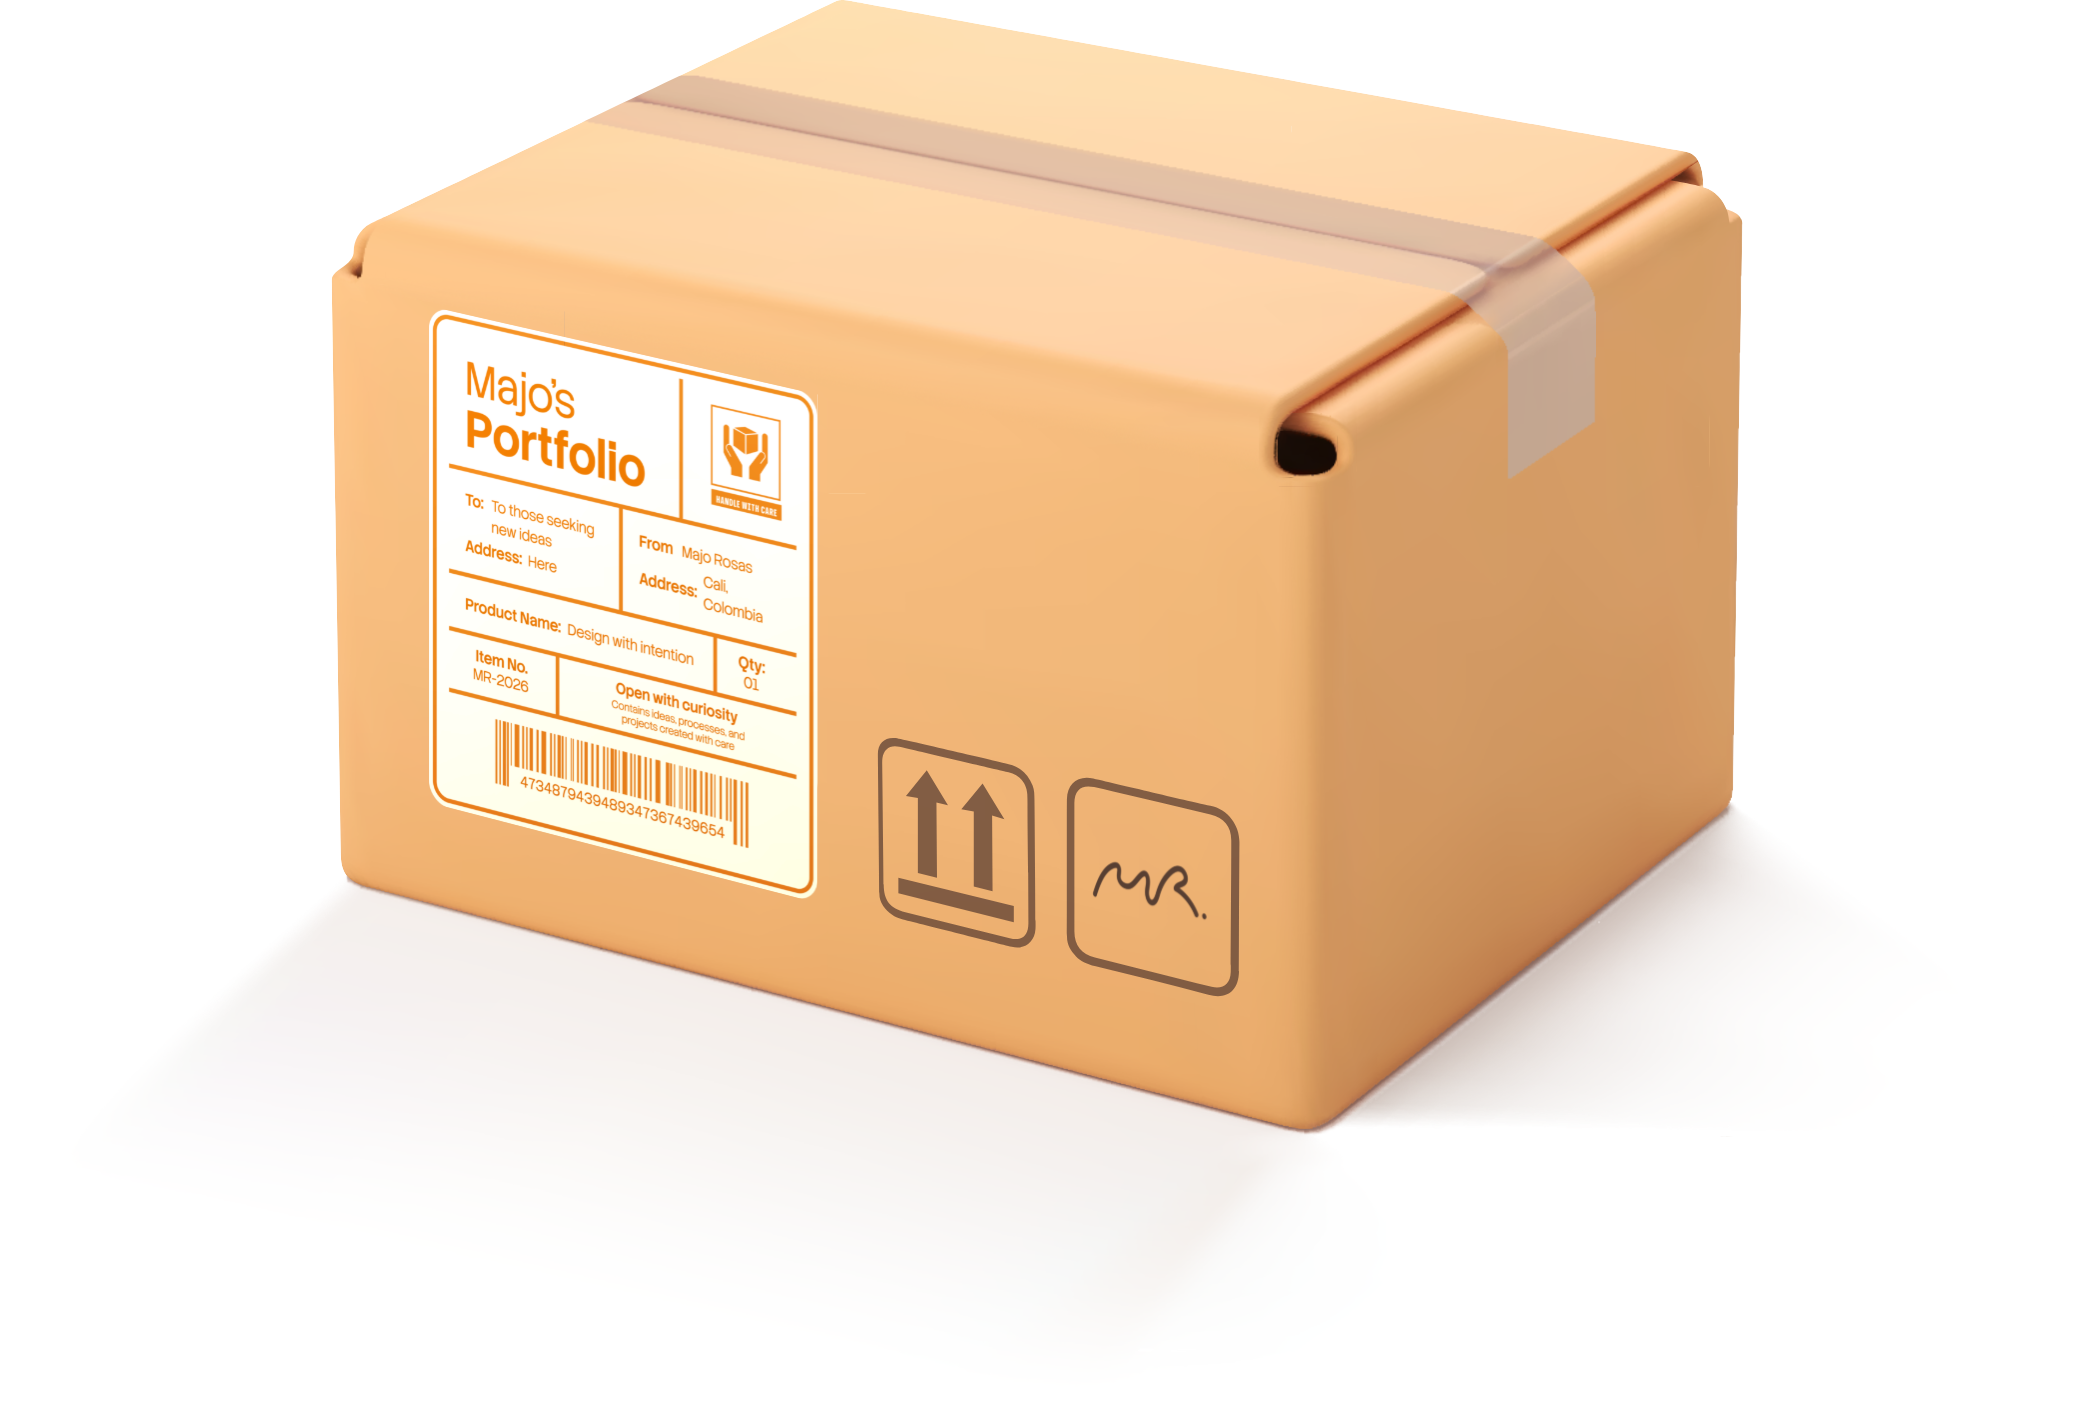
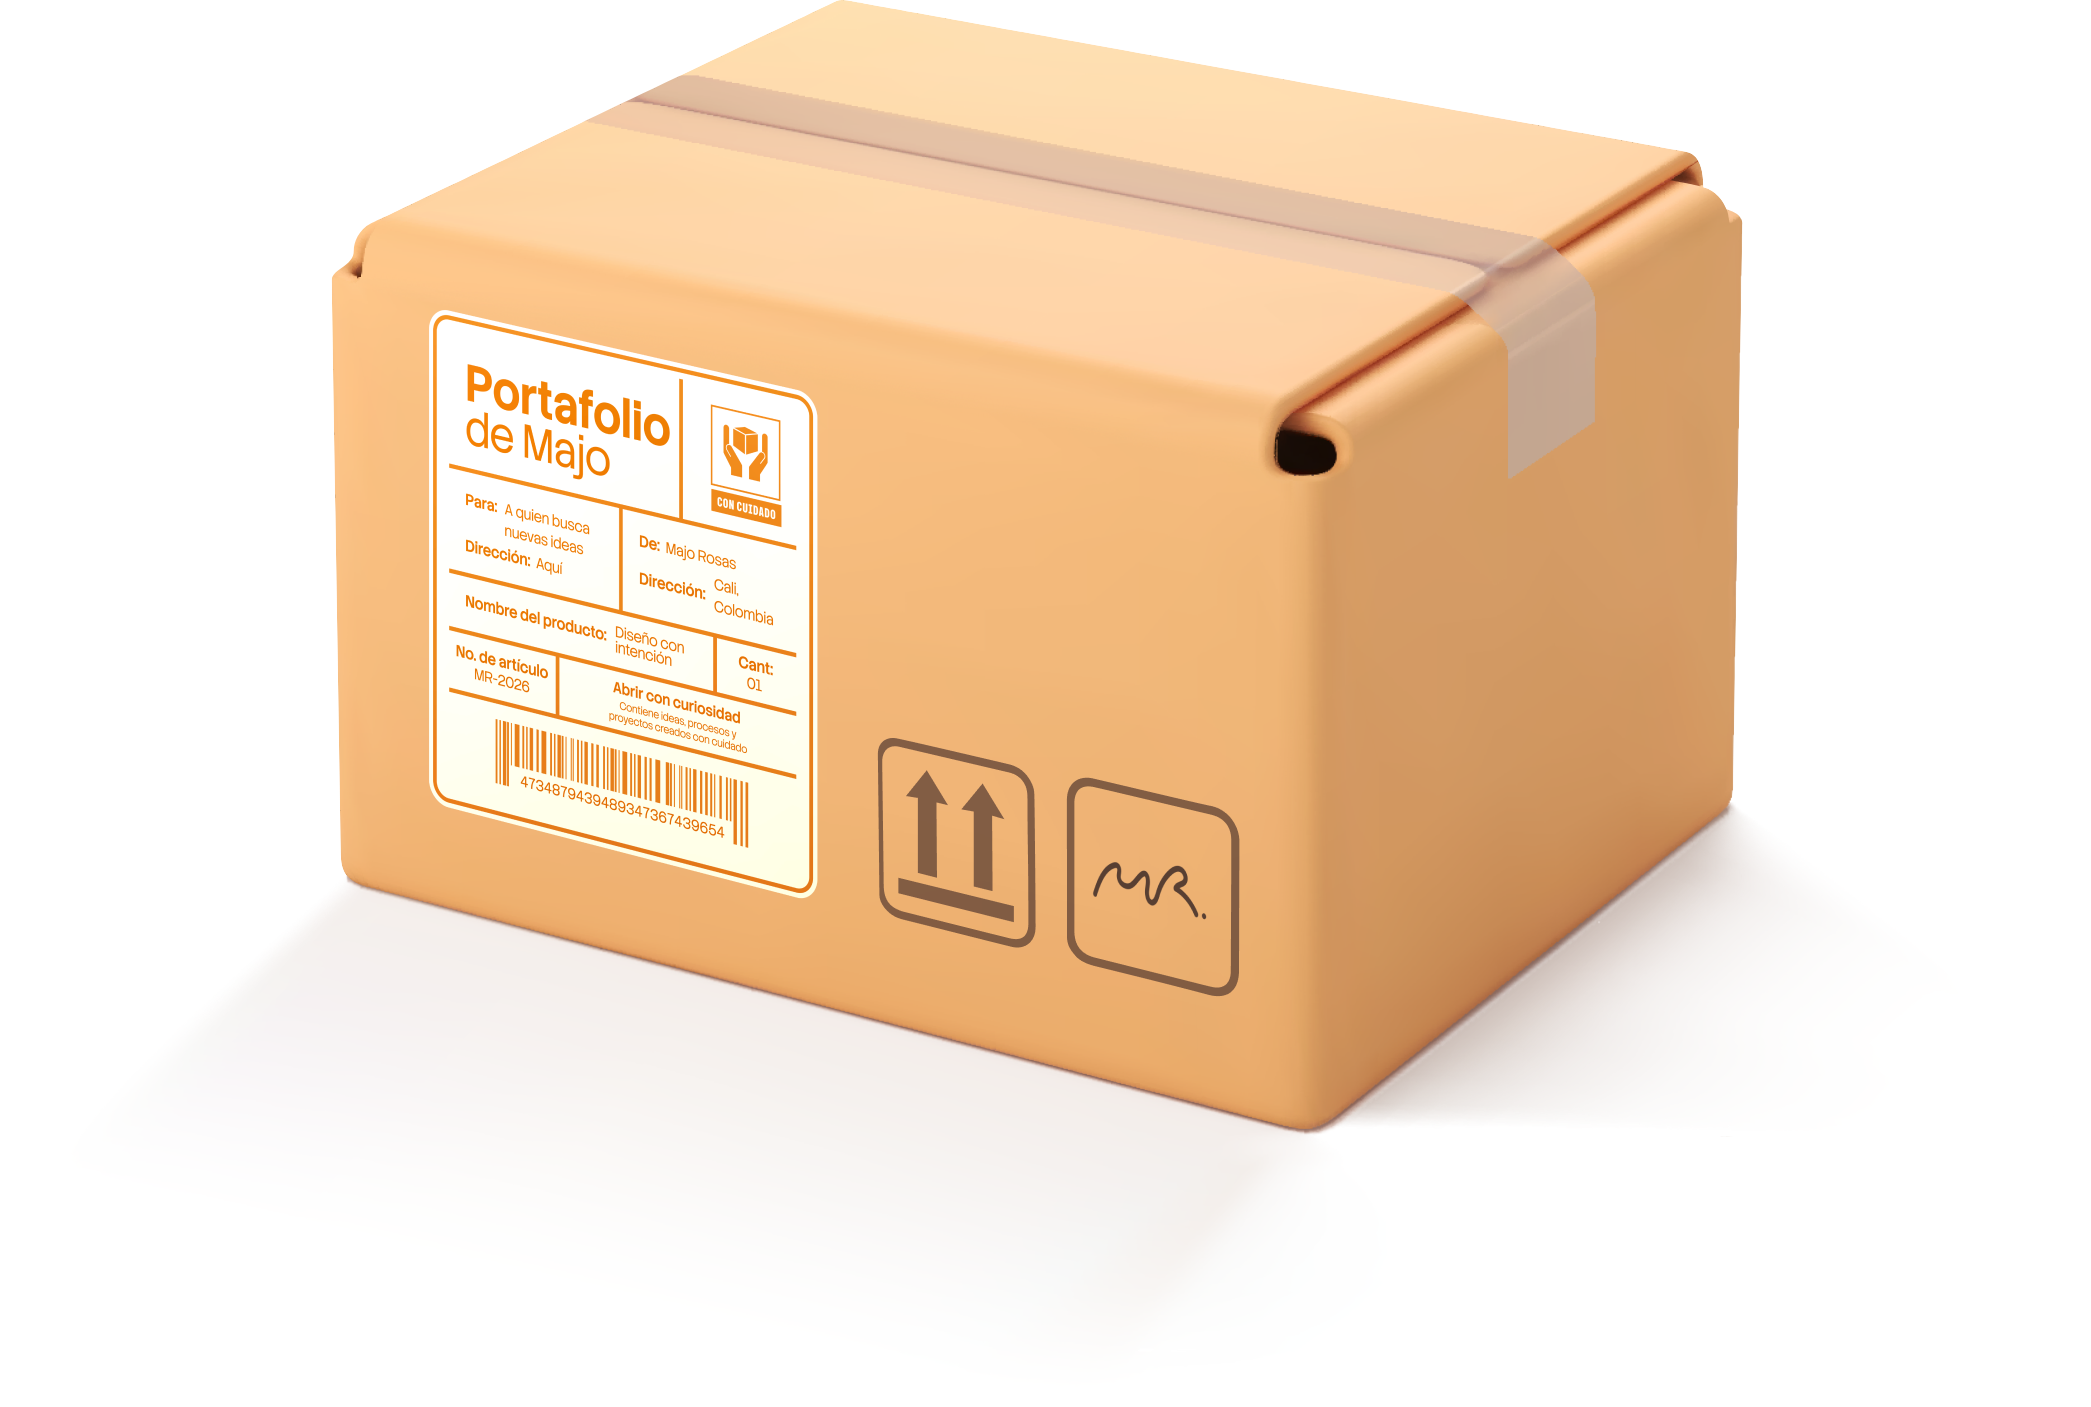
adding english mode in more images

Changed region(s): [[0.2176, 0.2445, 0.373, 0.6112]]

diff --git a/src/components/Footer.css b/src/components/Footer.css
@@ -1,0 +1,72 @@
+/* Pie de página */
+
+.footer {
+  color: var(--brown);
+}
+
+.footer__inner {
+  /* Mismos márgenes laterales que el header */
+  --margin: clamp(24px, calc(100vw * 110 / 1512), 110px);
+  display: grid;
+  grid-template-columns: 1fr auto 1fr;
+  align-items: center;
+  gap: 24px;
+  max-width: 1512px;
+  margin: 0 auto;
+  padding: 28px var(--margin);
+  border-top: 1px solid rgba(67, 47, 46, 0.15);
+  font-size: 14px;
+  line-height: 1.4;
+}
+
+.footer__credit {
+  text-align: center;
+  opacity: 0.75;
+}
+
+.footer__link {
+  opacity: 0.75;
+  text-underline-offset: 3px;
+  transition: opacity 0.2s ease;
+}
+
+.footer__link:hover,
+.footer__link:focus-visible {
+  opacity: 1;
+  text-decoration: underline;
+}
+
+.footer__link:focus-visible {
+  outline: 2px solid var(--orange);
+  outline-offset: 4px;
+  border-radius: 4px;
+}
+
+.footer__top {
+  justify-self: start;
+}
+
+.footer__email {
+  justify-self: end;
+}
+
+@media (max-width: 768px) {
+  .footer__inner {
+    --margin: clamp(20px, 5vw, 28px);
+    grid-template-columns: 1fr;
+    justify-items: center;
+    gap: 10px;
+    padding: 24px var(--margin) calc(24px + env(safe-area-inset-bottom));
+    text-align: center;
+  }
+
+  /* En columna: crédito primero, luego correo y volver al inicio */
+  .footer__credit {
+    order: -1;
+  }
+
+  .footer__top,
+  .footer__email {
+    justify-self: center;
+  }
+}

diff --git a/src/components/Header.jsx b/src/components/Header.jsx
@@ -2,6 +2,7 @@ import { useEffect, useLayoutEffect, useRef, useState } from 'react';
 import { createPortal, flushSync } from 'react-dom';
 import { useLanguage } from '../i18n/LanguageContext.jsx';
 import LanguageSwitch from './LanguageSwitch.jsx';
+import { goToSection } from './goToSection.js';
 import { socials } from './socials.js';
 import './Header.css';
 import './MobileMenu.css';
@@ -13,15 +14,6 @@ const links = [
   { href: '#projects', key: 'projects' },
   { href: '#contact', key: 'contact' },
 ];
-
-// Lleva a una sección sin escribir el #ancla en la URL (así, al recargar, la página abre en el inicio)
-const goToSection = (e) => {
-  const target = document.querySelector(e.currentTarget.getAttribute('href'));
-  if (!target) return;
-  e.preventDefault();
-  const reduced = window.matchMedia('(prefers-reduced-motion: reduce)').matches;
-  target.scrollIntoView({ behavior: reduced ? 'auto' : 'smooth' });
-};
 
 const FOCUSABLE = 'a[href], button:not([disabled]), [tabindex]:not([tabindex="-1"])';
 

diff --git a/src/components/Footer.jsx b/src/components/Footer.jsx
@@ -1,0 +1,27 @@
+import { useLanguage } from '../i18n/LanguageContext.jsx';
+import { goToSection } from './goToSection.js';
+import './Footer.css';
+
+// Pie de página discreto: volver al inicio, crédito con el año actual y el correo de contacto
+// (el mismo de la sección Contacto). Las redes ya están en Contacto, aquí no se repiten.
+const EMAIL = 'multimedia.mr16@gmail.com';
+
+export default function Footer() {
+  const { t } = useLanguage();
+  const year = new Date().getFullYear();
+  return (
+    <footer className="footer section section--paper">
+      <div className="footer__inner">
+        <a href="#intro" className="footer__link footer__top" onClick={goToSection}>
+          {t.footer.backToTop} <span aria-hidden="true">↑</span>
+        </a>
+        <p className="footer__credit">
+          {t.footer.credit} · © {year}
+        </p>
+        <a href={`mailto:${EMAIL}`} className="footer__link footer__email">
+          {EMAIL}
+        </a>
+      </div>
+    </footer>
+  );
+}

diff --git a/src/sections/Intro/Intro.jsx b/src/sections/Intro/Intro.jsx
@@ -4,6 +4,7 @@ import { byName } from '../../assets/images.js';
 import Message from '../../components/Message.jsx';
 import ObjectItem from '../../components/ObjectItem.jsx';
 import { useLanguage } from '../../i18n/LanguageContext.jsx';
+import { localizedSrc } from '../../i18n/images.js';
 import useDraggableObjects from './useDraggableObjects.js';
 import ObjectMessage from './ObjectMessage.jsx';
 import './Intro.css';
@@ -242,7 +243,7 @@ export default function Intro() {
               <img
                 key={f.src}
                 className={`box__frame box__frame--${i}`}
-                src={img[f.src]}
+                src={localizedSrc(img, f.src, lang)}
                 alt=""
                 // La caja cerrada es lo primero que se ve: se pide antes que el resto de imágenes
                 fetchpriority={i === 0 ? 'high' : undefined}

diff --git a/src/i18n/images.js b/src/i18n/images.js
@@ -8,6 +8,11 @@ export const localizedImages = {
   'sticker-about-me': { es: 'sticker-about-me', en: 'sticker-about-me.en' }, // src/assets/sections/about/
   'title-what-i-bring': { es: 'title-what-i-bring', en: 'title-what-i-bring.en' }, // src/assets/sections/what-i-bring/
   'sticker-projects': { es: 'sticker-projects', en: 'sticker-projects.en' }, // src/assets/sections/projects/
+  // Fotogramas de la caja del inicio (etiqueta «Portafolio de Majo» / «Majo's Portfolio») — src/assets/sections/intro/
+  'box-closed': { es: 'box-closed', en: 'box-closed.en' },
+  'box-opening-1': { es: 'box-opening-1', en: 'box-opening-1.en' },
+  'box-opening-2': { es: 'box-opening-2', en: 'box-opening-2.en' },
+  'box-open': { es: 'box-open', en: 'box-open.en' },
 };
 
 // img: objeto de la sección (byName); name: nombre de la imagen original.

diff --git a/src/sections/About/About.jsx b/src/sections/About/About.jsx
@@ -36,7 +36,7 @@ const TRIM = 1040;
 // - LEFT_DY / BIO_DY centran en la foto (y = 1582) el texto de la izquierda («Hola! soy» → «de Cali», el
 //   sticker se mueve con él pero no cuenta para el centrado) y la bio, así quedan alineados entre sí.
 // - COLS_DY separa «Mi enfoque» / «Mi toolkit» del final de la sección.
-const LEFT_DY = -5;
+const LEFT_DY = 5;
 const BIO_DY = 30;
 const COLS_DY = 100;
 
@@ -119,7 +119,7 @@ export default function About() {
                 <Rich text={a.role} />
               </p>
             </P>
-            <P x={281.8} y={1710.7 + LEFT_DY} r={-0.53} className="about__city">
+            <P x={281.8} y={1690.7 + LEFT_DY} r={-0.53} className="about__city">
               <Pill size="lg">{a.from}</Pill>
             </P>
           </div>

diff --git a/src/i18n/translations.js b/src/i18n/translations.js
@@ -18,6 +18,10 @@ export const translations = {
       links: { about: 'Sobre mí', whatIBring: 'Lo que aporto', projects: 'Proyectos', contact: 'Hablemos' },
       language: 'Idioma',
     },
+    footer: {
+      credit: 'Portafolio de María José Rosas Cuellar',
+      backToTop: 'Volver al inicio',
+    },
     intro: {
       greeting: 'Hola!',
       message: '¿Abrimos la caja?',
@@ -122,6 +126,10 @@ export const translations = {
       socials: 'Social media',
       links: { about: 'About me', whatIBring: 'What I bring', projects: 'Projects', contact: "Let's talk" },
       language: 'Language',
+    },
+    footer: {
+      credit: 'María José Rosas Cuellar’s portfolio',
+      backToTop: 'Back to top',
     },
     intro: {
       greeting: 'Hey!',

diff --git a/src/components/Header.css b/src/components/Header.css
@@ -69,7 +69,20 @@
 .header__nav {
   display: flex;
   gap: calc(var(--u) * 9);
+  margin-right: calc(var(--u) * 8);
   transition: opacity 0.4s ease, visibility 0s linear 0s;
+}
+
+/* Línea que separa la navegación del selector de idioma (solo escritorio: en celular el nav no se
+   muestra). currentColor: se aclara sobre la sección oscura; se oculta junto con el nav en el inicio. */
+.header__nav::after {
+  content: '';
+  align-self: center;
+  width: max(1px, calc(var(--u) * 1.2));
+  height: max(18px, calc(var(--u) * 22));
+  margin-left: calc(var(--u) * 8);
+  background: currentColor;
+  opacity: 0.35;
 }
 
 .header__link {

diff --git a/src/components/goToSection.js b/src/components/goToSection.js
@@ -1,0 +1,9 @@
+// Lleva a una sección sin escribir el #ancla en la URL (así, al recargar, la página abre en el inicio).
+// Se usa en los enlaces del header, del menú del celular y del footer.
+export const goToSection = (e) => {
+  const target = document.querySelector(e.currentTarget.getAttribute('href'));
+  if (!target) return;
+  e.preventDefault();
+  const reduced = window.matchMedia('(prefers-reduced-motion: reduce)').matches;
+  target.scrollIntoView({ behavior: reduced ? 'auto' : 'smooth' });
+};

diff --git a/src/App.jsx b/src/App.jsx
@@ -1,4 +1,5 @@
 import { useEffect, useRef } from 'react';
+import Footer from './components/Footer.jsx';
 import Header from './components/Header.jsx';
 import { LanguageProvider } from './i18n/LanguageContext.jsx';
 import Intro from './sections/Intro/Intro.jsx';
@@ -34,6 +35,7 @@ export default function App() {
         <About />
         <WhatIBring />
         <Projects />
+        <Footer />
       </main>
     </LanguageProvider>
   );
